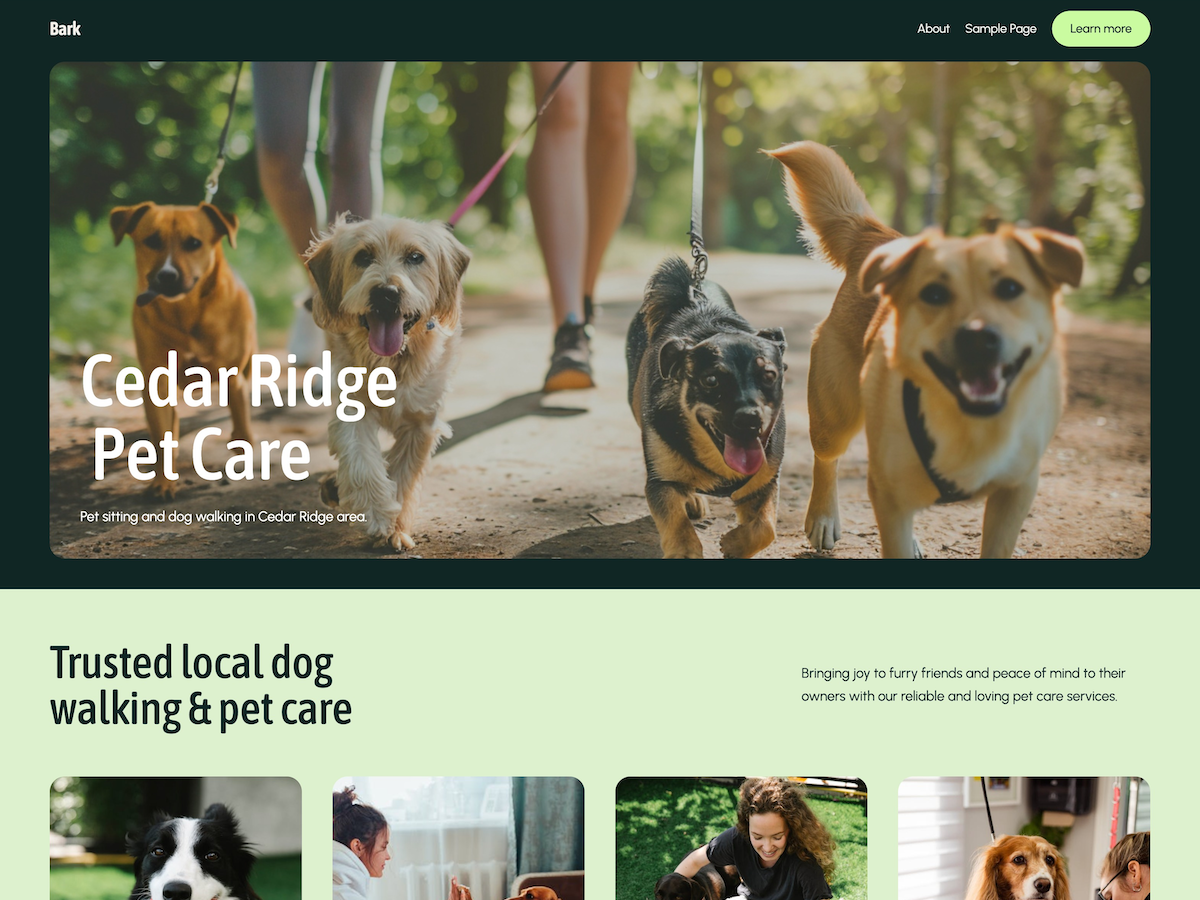
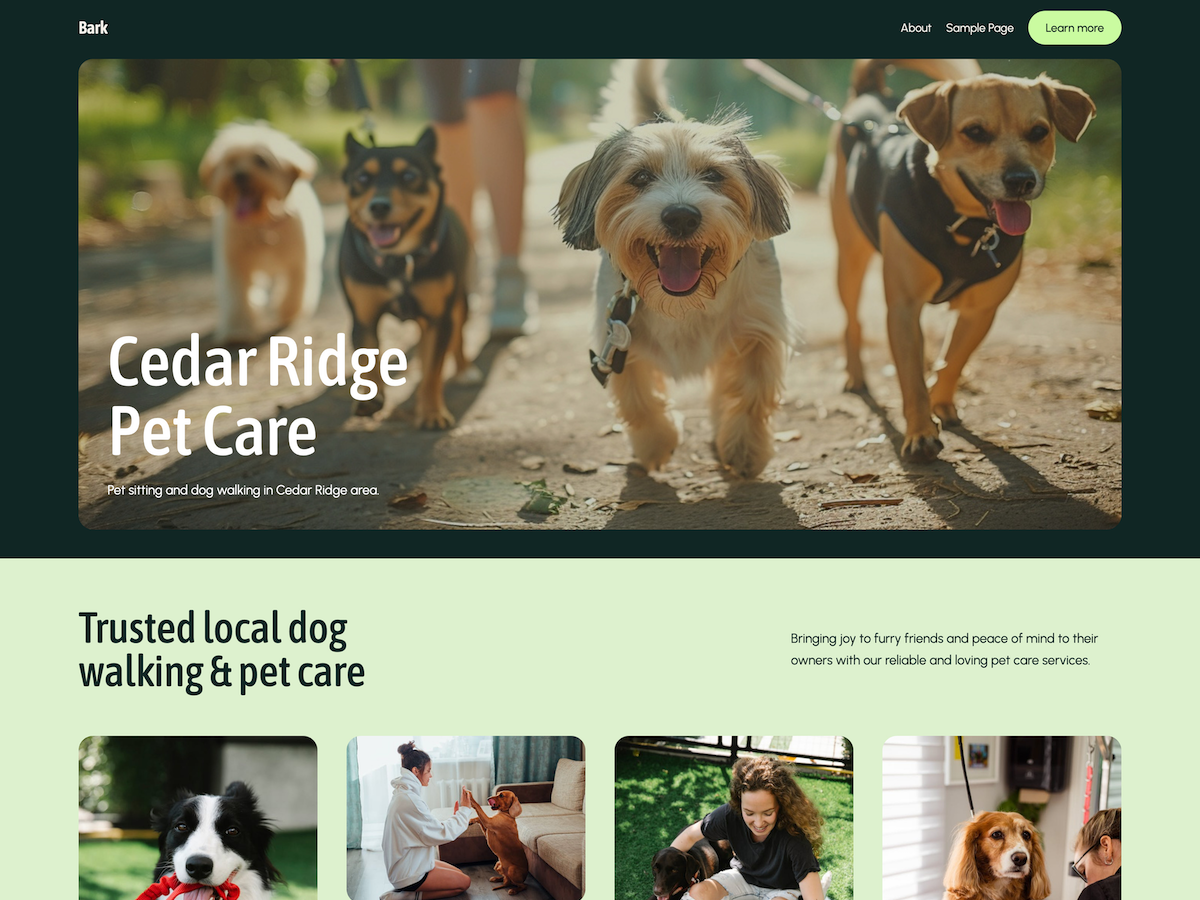
Bark: Update hero image on the homepage (#7990)
* Bark: Update hero image on the homepage

* Update theme screenshot

diff --git a/bark/patterns/home-intro.php b/bark/patterns/home-intro.php
@@ -9,8 +9,8 @@
 
 <!-- wp:group {"tagName":"main","metadata":{"name":"Main"},"style":{"spacing":{"blockGap":"0","margin":{"top":"0"}}},"layout":{"type":"default"}} -->
 <main class="wp-block-group" style="margin-top:0"><!-- wp:group {"metadata":{"name":"Intro"},"align":"full","style":{"spacing":{"padding":{"top":"var:preset|spacing|20","bottom":"var:preset|spacing|30","left":"var(\u002d\u002dwp\u002d\u002dstyle\u002d\u002droot\u002d\u002dpadding-left, var(\u002d\u002dwp\u002d\u002dcustom\u002d\u002dgap\u002d\u002dhorizontal))","right":"var(\u002d\u002dwp\u002d\u002dstyle\u002d\u002droot\u002d\u002dpadding-right, var(\u002d\u002dwp\u002d\u002dcustom\u002d\u002dgap\u002d\u002dhorizontal))"},"margin":{"top":"0","bottom":"0"}}},"backgroundColor":"theme-5","layout":{"type":"constrained","justifyContent":"center"}} -->
-<div class="wp-block-group alignfull has-theme-5-background-color has-background" style="margin-top:0;margin-bottom:0;padding-top:var(--wp--preset--spacing--20);padding-right:var(--wp--style--root--padding-right, var(--wp--custom--gap--horizontal));padding-bottom:var(--wp--preset--spacing--30);padding-left:var(--wp--style--root--padding-left, var(--wp--custom--gap--horizontal))"><!-- wp:cover {"url":"<?php echo esc_url( get_stylesheet_directory_uri() ); ?>/assets/images/dog_walk.png","dimRatio":20,"overlayColor":"theme-5","isUserOverlayColor":true,"minHeight":650,"contentPosition":"bottom left","align":"wide","style":{"border":{"radius":"20px"},"spacing":{"padding":{"right":"var:preset|spacing|30","left":"var:preset|spacing|30","top":"var:preset|spacing|30","bottom":"var:preset|spacing|30"}},"elements":{"link":{"color":{"text":"var:preset|color|theme-1"}}}},"textColor":"theme-1","layout":{"type":"constrained","contentSize":"450px"}} -->
-<div class="wp-block-cover alignwide has-custom-content-position is-position-bottom-left has-theme-1-color has-text-color has-link-color" style="border-radius:20px;padding-top:var(--wp--preset--spacing--30);padding-right:var(--wp--preset--spacing--30);padding-bottom:var(--wp--preset--spacing--30);padding-left:var(--wp--preset--spacing--30);min-height:650px"><span aria-hidden="true" class="wp-block-cover__background has-theme-5-background-color has-background-dim-20 has-background-dim"></span><img class="wp-block-cover__image-background" alt="" src="<?php echo esc_url( get_stylesheet_directory_uri() ); ?>/assets/images/dog_walk.png" data-object-fit="cover"/><div class="wp-block-cover__inner-container"><!-- wp:heading {"textAlign":"left","fontSize":"xx-large"} -->
+<div class="wp-block-group alignfull has-theme-5-background-color has-background" style="margin-top:0;margin-bottom:0;padding-top:var(--wp--preset--spacing--20);padding-right:var(--wp--style--root--padding-right, var(--wp--custom--gap--horizontal));padding-bottom:var(--wp--preset--spacing--30);padding-left:var(--wp--style--root--padding-left, var(--wp--custom--gap--horizontal))"><!-- wp:cover {"url":"<?php echo esc_url( get_stylesheet_directory_uri() ); ?>/assets/images/dog_walk.jpg","dimRatio":20,"overlayColor":"theme-5","isUserOverlayColor":true,"focalPoint":{"x":0.5,"y":1},"minHeight":650,"contentPosition":"bottom left","align":"wide","style":{"border":{"radius":"20px"},"spacing":{"padding":{"right":"var:preset|spacing|30","left":"var:preset|spacing|30","top":"var:preset|spacing|30","bottom":"var:preset|spacing|30"}},"elements":{"link":{"color":{"text":"var:preset|color|theme-1"}}}},"textColor":"theme-1","layout":{"type":"constrained","contentSize":"450px"}} -->
+<div class="wp-block-cover alignwide has-custom-content-position is-position-bottom-left has-theme-1-color has-text-color has-link-color" style="border-radius:20px;padding-top:var(--wp--preset--spacing--30);padding-right:var(--wp--preset--spacing--30);padding-bottom:var(--wp--preset--spacing--30);padding-left:var(--wp--preset--spacing--30);min-height:650px"><span aria-hidden="true" class="wp-block-cover__background has-theme-5-background-color has-background-dim-20 has-background-dim"></span><img class="wp-block-cover__image-background" alt="" src="<?php echo esc_url( get_stylesheet_directory_uri() ); ?>/assets/images/dog_walk.jpg" style="object-position:50% 100%" data-object-fit="cover" data-object-position="50% 100%" /><div class="wp-block-cover__inner-container"><!-- wp:heading {"textAlign":"left","fontSize":"xx-large"} -->
 <h2 class="wp-block-heading has-text-align-left has-xx-large-font-size">Cedar Ridge  Pet Care</h2>
 <!-- /wp:heading -->
 
